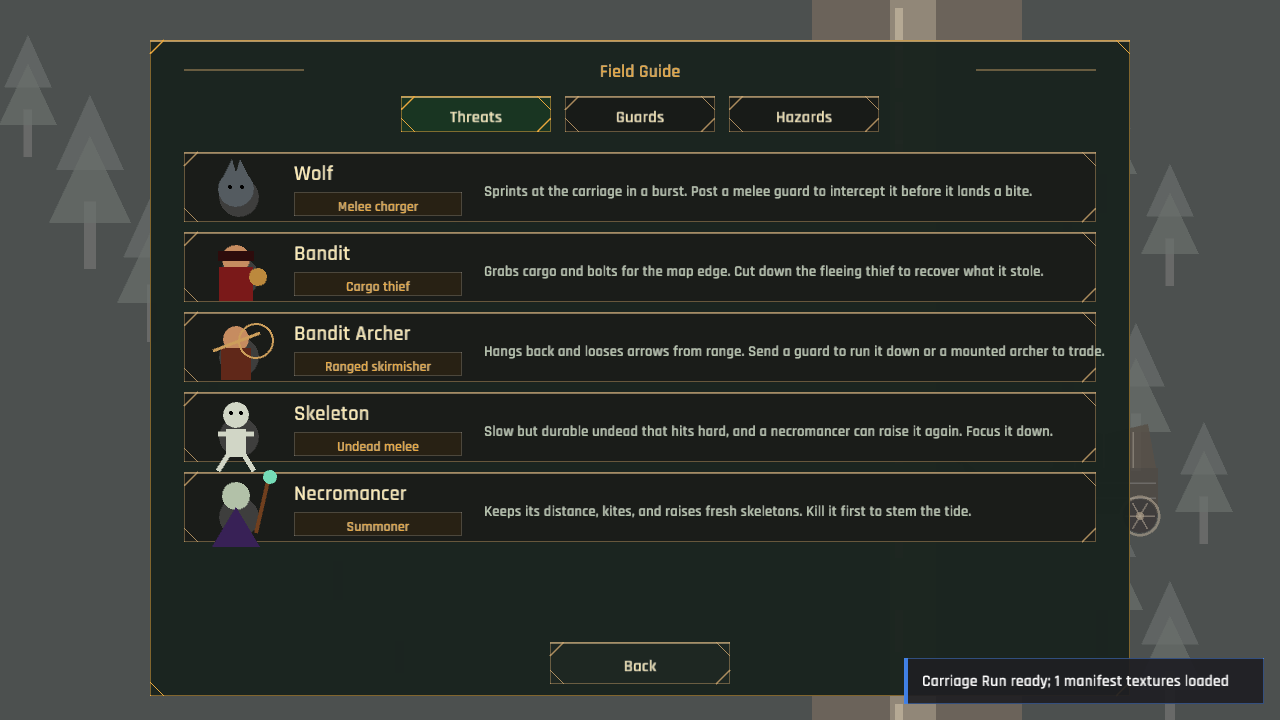
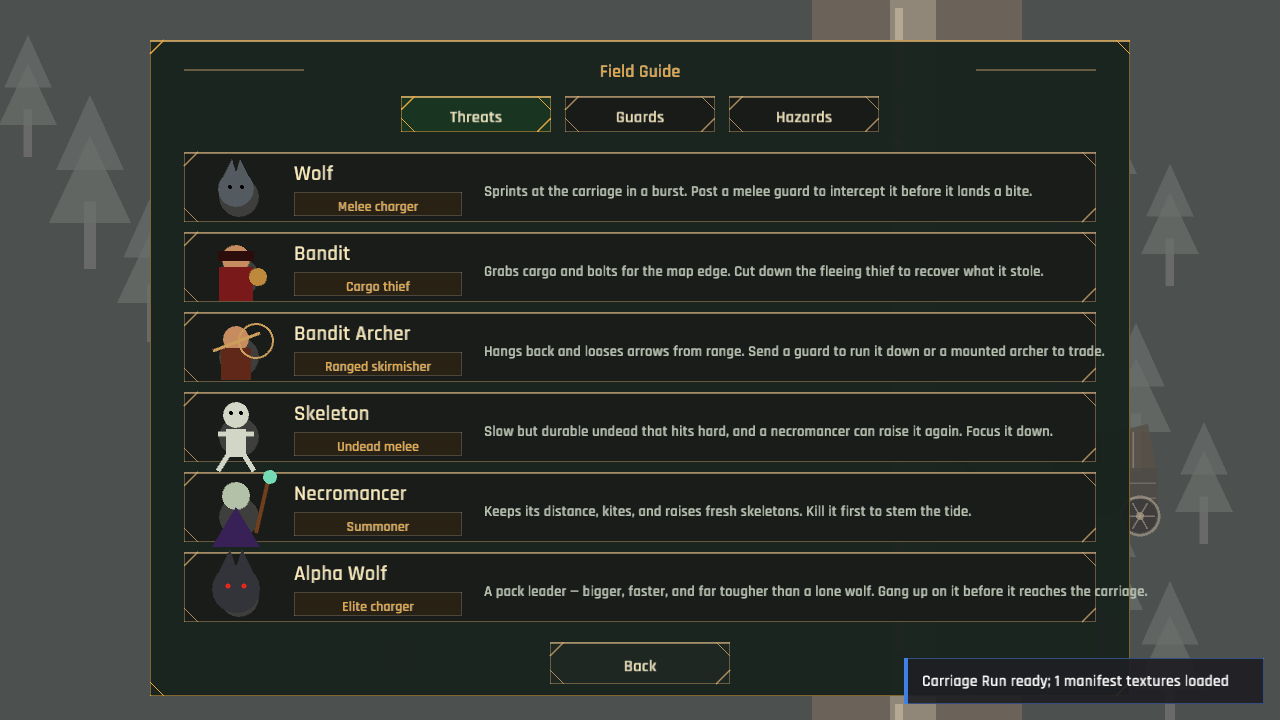
Add the Alpha Wolf elite enemy
Roadmap A5: no elite enemies existed. The Alpha Wolf is a pack-leader
variant of the wolf — more health, damage, speed, and a harder charge —
with a larger, darker, red-eyed sprite so it reads as a step up at a
glance. Added to Refugee Escort's enemy mix and the Field Guide.

- New EnemyKind::AlphaWolf across all match sites (stats, behaviour,
  labels, codex blurb, draw); "alpha_wolf" resolves via from_id so the
  content validator accepts it.
- Test: the Alpha Wolf out-stats a common wolf. Fresh Field Guide
  (Threats) screenshot.
- Roadmap: A5 marked partial (1 of 2-3 elites) with a progress-log note.

Changed region(s): [[0.375, 0.7944, 0.9062, 0.8556], [0.1562, 0.7639, 0.3438, 0.8556]]

diff --git a/index.html b/index.html
@@ -107,6 +107,16 @@
     <!-- Player bug reporting -> Project Roost Fix Queue (shared widget). -->
     <div id="roost-bug-report" data-roost-slug="rust_carriage_run"></div>
     <script src="../bug-report.js"></script>
+    <!-- Ko-fi support widget (https://ko-fi.com/webhatchery) -->
+    <script src='https://storage.ko-fi.com/cdn/scripts/overlay-widget.js'></script>
+    <script>
+        kofiWidgetOverlay.draw('webhatchery', {
+            'type': 'floating-chat',
+            'floating-chat.donateButton.text': 'Support me',
+            'floating-chat.donateButton.background-color': '#00b9fe',
+            'floating-chat.donateButton.text-color': '#fff'
+        });
+    </script>
 </body>
 
 </html>

diff --git a/src/ui/gameplay.rs b/src/ui/gameplay.rs
@@ -479,6 +479,7 @@ fn draw_enemy(enemy: &Enemy) {
         EnemyKind::BanditArcher => draw_bandit_archer(enemy.pos, flash),
         EnemyKind::Skeleton => draw_skeleton(enemy.pos, flash),
         EnemyKind::Necromancer => draw_necromancer(enemy.pos, flash),
+        EnemyKind::AlphaWolf => draw_alpha_wolf(enemy.pos, flash),
     }
     draw_health_bar(
         vec2(enemy.pos.x - 26.0, enemy.pos.y - enemy.radius - 18.0),
@@ -504,7 +505,34 @@ pub(super) fn draw_enemy_icon(kind: EnemyKind, pos: Vec2) {
         EnemyKind::BanditArcher => draw_bandit_archer(pos, false),
         EnemyKind::Skeleton => draw_skeleton(pos, false),
         EnemyKind::Necromancer => draw_necromancer(pos, false),
+        EnemyKind::AlphaWolf => draw_alpha_wolf(pos, false),
     }
+}
+
+/// Elite wolf: a larger, darker wolf with red eyes, so it reads as a step up
+/// from the common wolf at a glance.
+fn draw_alpha_wolf(pos: Vec2, flash: bool) {
+    let body = if flash {
+        WHITE
+    } else {
+        Color::new(0.20, 0.20, 0.23, 1.0)
+    };
+    draw_circle(pos.x, pos.y, 24.0, body);
+    draw_triangle(
+        vec2(pos.x - 19.0, pos.y - 13.0),
+        vec2(pos.x - 6.0, pos.y - 40.0),
+        vec2(pos.x + 3.0, pos.y - 12.0),
+        body,
+    );
+    draw_triangle(
+        vec2(pos.x + 19.0, pos.y - 13.0),
+        vec2(pos.x + 6.0, pos.y - 40.0),
+        vec2(pos.x - 3.0, pos.y - 12.0),
+        body,
+    );
+    let eye = Color::new(0.90, 0.16, 0.12, 1.0);
+    draw_circle(pos.x - 8.0, pos.y - 3.0, 2.6, eye);
+    draw_circle(pos.x + 8.0, pos.y - 3.0, 2.6, eye);
 }
 
 fn draw_wolf(pos: Vec2, flash: bool) {

diff --git a/src/state/entities.rs b/src/state/entities.rs
@@ -436,16 +436,19 @@ pub enum EnemyKind {
     BanditArcher,
     Skeleton,
     Necromancer,
+    /// Elite pack leader: a bigger, tougher, faster charging wolf.
+    AlphaWolf,
 }
 
 impl EnemyKind {
-    pub fn all() -> [Self; 5] {
+    pub fn all() -> [Self; 6] {
         [
             Self::Wolf,
             Self::Bandit,
             Self::BanditArcher,
             Self::Skeleton,
             Self::Necromancer,
+            Self::AlphaWolf,
         ]
     }
 
@@ -456,6 +459,7 @@ impl EnemyKind {
             "bandit_archer" => Some(Self::BanditArcher),
             "skeleton" => Some(Self::Skeleton),
             "necromancer" => Some(Self::Necromancer),
+            "alpha_wolf" => Some(Self::AlphaWolf),
             _ => None,
         }
     }
@@ -468,6 +472,7 @@ impl EnemyKind {
             Self::BanditArcher => "Bandit Archer",
             Self::Skeleton => "Skeleton",
             Self::Necromancer => "Necromancer",
+            Self::AlphaWolf => "Alpha Wolf",
         }
     }
 
@@ -479,6 +484,7 @@ impl EnemyKind {
             Self::BanditArcher => "Ranged skirmisher",
             Self::Skeleton => "Undead melee",
             Self::Necromancer => "Summoner",
+            Self::AlphaWolf => "Elite charger",
         }
     }
 
@@ -500,6 +506,9 @@ impl EnemyKind {
             Self::Necromancer => {
                 "Keeps its distance, kites, and raises fresh skeletons. Kill it first to stem the tide."
             }
+            Self::AlphaWolf => {
+                "A pack leader — bigger, faster, and far tougher than a lone wolf. Gang up on it before it reaches the carriage."
+            }
         }
     }
 
@@ -510,6 +519,7 @@ impl EnemyKind {
             Self::BanditArcher => "Bandit arrow",
             Self::Skeleton => "Skeleton strike",
             Self::Necromancer => "Dark bolt",
+            Self::AlphaWolf => "Alpha wolf maul",
         }
     }
 
@@ -527,6 +537,7 @@ impl EnemyKind {
     pub(super) fn charge_multiplier(self) -> f32 {
         match self {
             Self::Wolf => 1.85,
+            Self::AlphaWolf => 2.05,
             _ => 1.0,
         }
     }
@@ -568,6 +579,7 @@ impl Enemy {
             EnemyKind::BanditArcher => (34.0, 62.0, 6.0, 18.0, 1.45),
             EnemyKind::Skeleton => (54.0, 76.0, 8.0, 21.0, 1.15),
             EnemyKind::Necromancer => (74.0, 48.0, 9.0, 22.0, 1.75),
+            EnemyKind::AlphaWolf => (78.0, 138.0, 12.0, 24.0, 0.8),
         };
         let scale = 0.9 + difficulty * 0.16;
 
@@ -606,6 +618,7 @@ impl Enemy {
             EnemyKind::Wolf => 104.0,
             EnemyKind::Skeleton => 96.0,
             EnemyKind::Necromancer => 150.0,
+            EnemyKind::AlphaWolf => 122.0,
         }
     }
 }

diff --git a/src/state/mission/combat.rs b/src/state/mission/combat.rs
@@ -691,6 +691,15 @@ mod tests {
     }
 
     #[test]
+    fn alpha_wolf_outclasses_a_common_wolf() {
+        let wolf = Enemy::new(1, EnemyKind::Wolf, vec2(0.0, 0.0), 1.0);
+        let alpha = Enemy::new(2, EnemyKind::AlphaWolf, vec2(0.0, 0.0), 1.0);
+        assert!(alpha.max_health > wolf.max_health);
+        assert!(alpha.damage > wolf.damage);
+        assert!(alpha.speed > wolf.speed);
+    }
+
+    #[test]
     fn live_enemies_are_hard_capped() {
         let mut run = test_run();
         // Far more spawn attempts than the cap; count must never exceed it.

diff --git a/COMMERCIAL_READINESS_ROADMAP.md b/COMMERCIAL_READINESS_ROADMAP.md
@@ -44,6 +44,7 @@ The workspace `standing.md` estimates **4–7 months to finish** — consistent 
 
 Shipped and committed to `master` this cycle (checkboxes below updated to match):
 
+- **A5 Elite enemies** — Alpha Wolf (elite charging wolf: tougher/faster, red-eyed sprite) added to Refugee Escort and the Field Guide. *(partial — 1 of 2–3 elites; bosses remain)*
 - **A2 Endgame economy** — Reinforced Kit consumable (+55 health for one route), a repeatable gold sink bought in the shop. *(done)*
 - **A6 Difficulty presets** — Relaxed / Standard / Hard scaling the mission difficulty scalar. *(done)*
 - **A6 Assist toggles** — "Generous Timers" (+15s on timed missions), orthogonal to the presets. *(partial — one assist so far; slower-waves / extra-gold remain)*
@@ -98,7 +99,7 @@ All 8 upgrade tracks are flat linear stat bumps (`upgrades.json`, cost = `base_c
 
 ### A5. 🟡 Elite/boss enemies
 Roster is 5 kinds, no elites, no bosses (`entities.rs:432-439`). Add:
-- [ ] 2–3 **elite variants** (armored bandit, alpha wolf, revenant) using existing behavior verbs with a twist.
+- [ ] 2–3 **elite variants** (armored bandit, alpha wolf, revenant) using existing behavior verbs with a twist. *(partial — Alpha Wolf shipped)*
 - [ ] 2–3 **bosses** for campaign finale + expedition finale (multi-phase, telegraph-heavy — the wave state machine in `flow.rs` extends naturally).
 - [ ] 3–4 additional standard enemies to support biome variety (A6/B1).
 